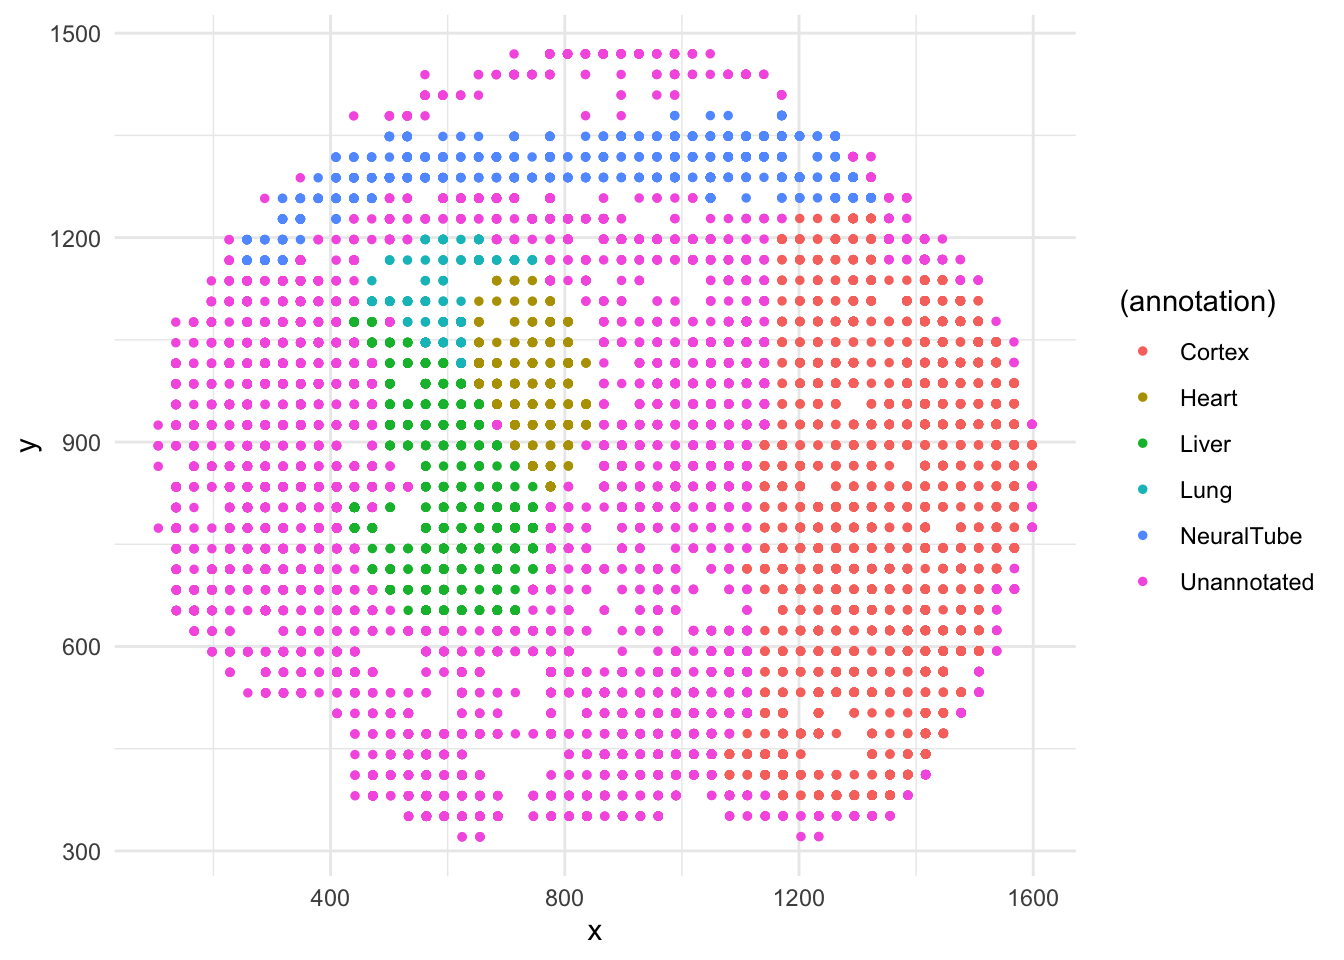
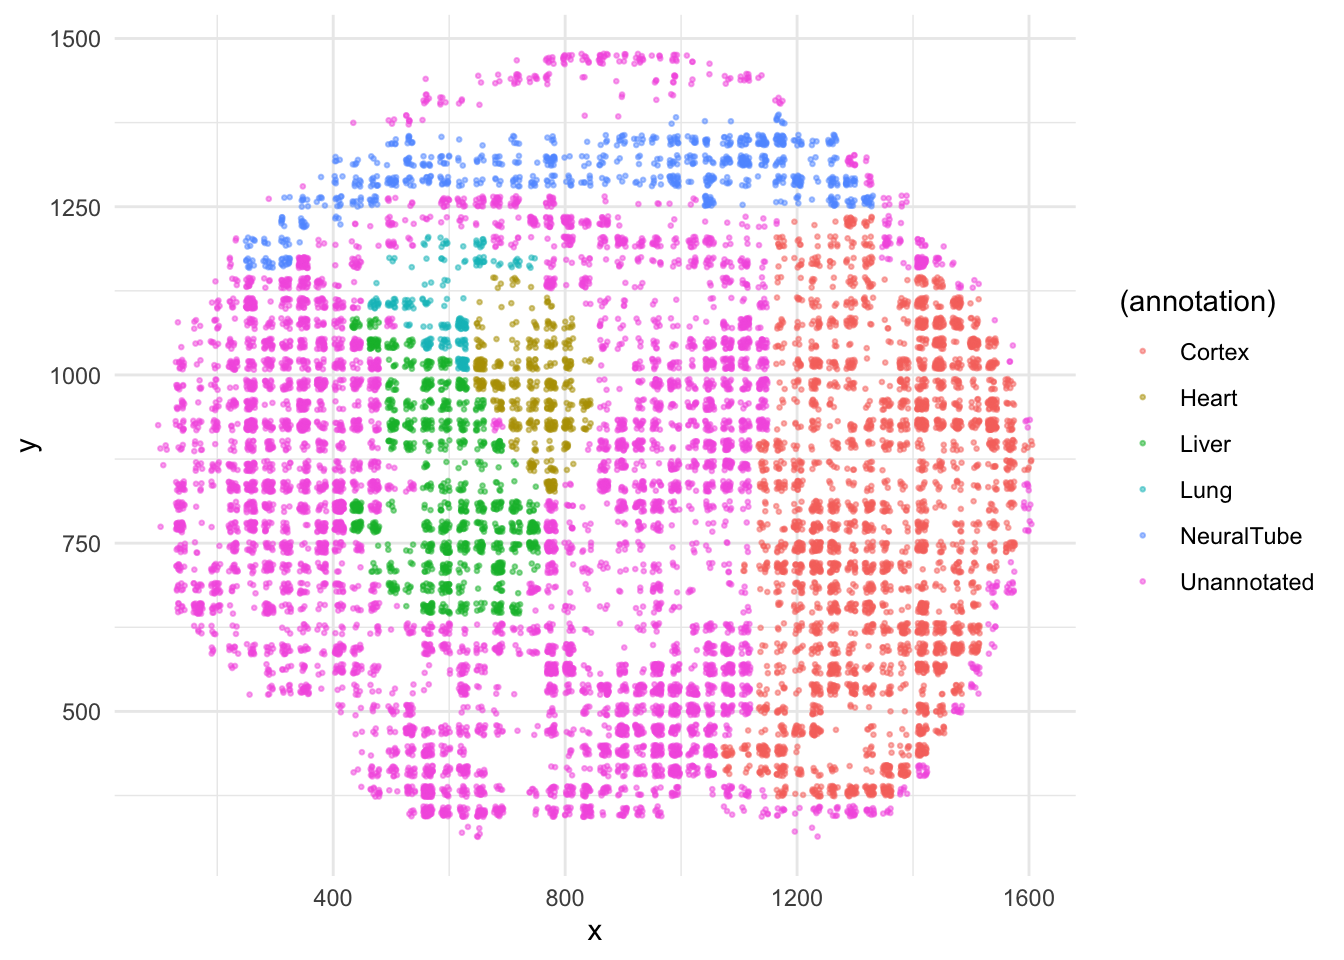
Build site.

diff --git a/docs/mouse_embryo.html b/docs/mouse_embryo.html
@@ -303,7 +303,7 @@ class="glyphicon glyphicon-ok text-success" aria-hidden="true"></span>
 <div class="tab-content">
 <div id="summary" class="tab-pane fade in active">
 <p>
-<strong>Last updated:</strong> 2025-01-22
+<strong>Last updated:</strong> 2025-01-23
 </p>
 <p>
 <strong>Checks:</strong> <span
@@ -435,15 +435,15 @@ project makes it easier to run your code on other machines.</p>
 <div class="panel panel-default">
 <div class="panel-heading">
 <p class="panel-title">
-<a data-toggle="collapse" data-parent="#workflowr-checks" href="#strongRepositoryversionstrongahrefhttpsgithubcomstephenslabsinglecelljamboreetree4f94bdf58099ac1226fb66d920018d1da69bb90ctargetblank4f94bdfa">
+<a data-toggle="collapse" data-parent="#workflowr-checks" href="#strongRepositoryversionstrongahrefhttpsgithubcomstephenslabsinglecelljamboreetree7981776daecedc8546b35bfdbf33362f6a82a0abtargetblank7981776a">
 <span class="glyphicon glyphicon-ok text-success"
 aria-hidden="true"></span> <strong>Repository version:</strong>
-<a href="https://github.com/stephenslab/single-cell-jamboree/tree/4f94bdf58099ac1226fb66d920018d1da69bb90c" target="_blank">4f94bdf</a>
+<a href="https://github.com/stephenslab/single-cell-jamboree/tree/7981776daecedc8546b35bfdbf33362f6a82a0ab" target="_blank">7981776</a>
 </a>
 </p>
 </div>
 <div
[2 lines of base64/hex data omitted]
 class="panel-collapse collapse">
 <div class="panel-body">
 <p>
@@ -453,7 +453,7 @@ reproducibility.
 </p>
 <p>
 The results in this page were generated with repository version
-<a href="https://github.com/stephenslab/single-cell-jamboree/tree/4f94bdf58099ac1226fb66d920018d1da69bb90c" target="_blank">4f94bdf</a>.
+<a href="https://github.com/stephenslab/single-cell-jamboree/tree/7981776daecedc8546b35bfdbf33362f6a82a0ab" target="_blank">7981776</a>.
 See the <em>Past versions</em> tab to see a history of the changes made
 to the R Markdown and HTML files.
 </p>
@@ -523,6 +523,40 @@ Message
 </tr>
 </thead>
 <tbody>
+<tr>
+<td>
+Rmd
+</td>
+<td>
+<a href="https://github.com/stephenslab/single-cell-jamboree/blob/7981776daecedc8546b35bfdbf33362f6a82a0ab/analysis/mouse_embryo.Rmd" target="_blank">7981776</a>
+</td>
+<td>
+Ziang Zhang
+</td>
+<td>
+2025-01-23
+</td>
+<td>
+workflowr::wflow_publish("analysis/mouse_embryo.Rmd")
+</td>
+</tr>
+<tr>
+<td>
+html
+</td>
+<td>
+<a href="https://rawcdn.githack.com/stephenslab/single-cell-jamboree/91de9dc88ddc297b2338e6e685f9a2e345218058/docs/mouse_embryo.html" target="_blank">91de9dc</a>
+</td>
+<td>
+Ziang Zhang
+</td>
+<td>
+2025-01-22
+</td>
+<td>
+Build site.
+</td>
+</tr>
 <tr>
 <td>
 Rmd
@@ -1712,10 +1746,7 @@ the hemoglobin, beta adult s chain. This gene is a part of the
 beta-globin cluster and plays a crucial role in oxygen transport from
 the lungs to peripheral tissues. It is predominantly expressed in
 tissues involved in hematopoiesis. It is reasonable that this gene is
-highly expressed in Erythroid Progenitors, but it is kind of surprising
-that it is also highly expressed in Hepatocytes. Maybe this implies
-there exists some annotation error in the cell types of the original
-data.</p>
+highly expressed in Erythroid Progenitors.</p>
 <p>For the factor <code>k3</code> that is shared across multiple types
 of neurons and glial cells, the leading gene is ENSMUSG00000072235.
 ENSMUSG00000072235, corresponds to Tuba1a, encoding the alpha tubulin
@@ -1748,13 +1779,15 @@ locations &lt;- data.frame(x = seurat_object$coords.x1, y = seurat_object$coords
 <p>These locations are collected from 14 different slides. Let’s focus
 on the slide 14 for now.</p>
 <pre class="r"><code>locationsdf &lt;- locations
+locationsdf$x &lt;- locationsdf$x + runif(nrow(locationsdf), -8, 8)
+locationsdf$y &lt;- locationsdf$y + runif(nrow(locationsdf), -8, 8)
 locationsdf$slideID &lt;- seurat_object$slide_id
 locationsdf$annotation &lt;- as.factor(seurat_object$anatomical_annotation)
 locationsdf$celltype &lt;- as.factor(seurat_object$final_cluster_label)
 locationsdf %&gt;%
   filter(slideID == &quot;Slide 14&quot;) %&gt;%
   ggplot(aes(x = x, y = y, colour = (annotation))) +
-  geom_point(size = 1, alpha = 1) +
+  geom_point(size = 0.5, alpha = 0.5) +
   theme_minimal()</code></pre>
 <p><img src="figure/mouse_embryo.Rmd/plotting_slide14-1.png" width="672" style="display: block; margin: auto;" /></p>
 <p>
@@ -1797,7 +1830,7 @@ Ziang Zhang
 <pre class="r"><code>locationsdf %&gt;%
   filter(slideID == &quot;Slide 14&quot;) %&gt;%
   ggplot(aes(x = x, y = y, colour = (celltype))) +
-  geom_point(size = 1, alpha = 1) +
+  geom_point(size = 0.5, alpha = 0.5) +
   theme_minimal()</code></pre>
 <p><img src="figure/mouse_embryo.Rmd/plotting_slide14-2.png" width="672" style="display: block; margin: auto;" /></p>
 <p>
